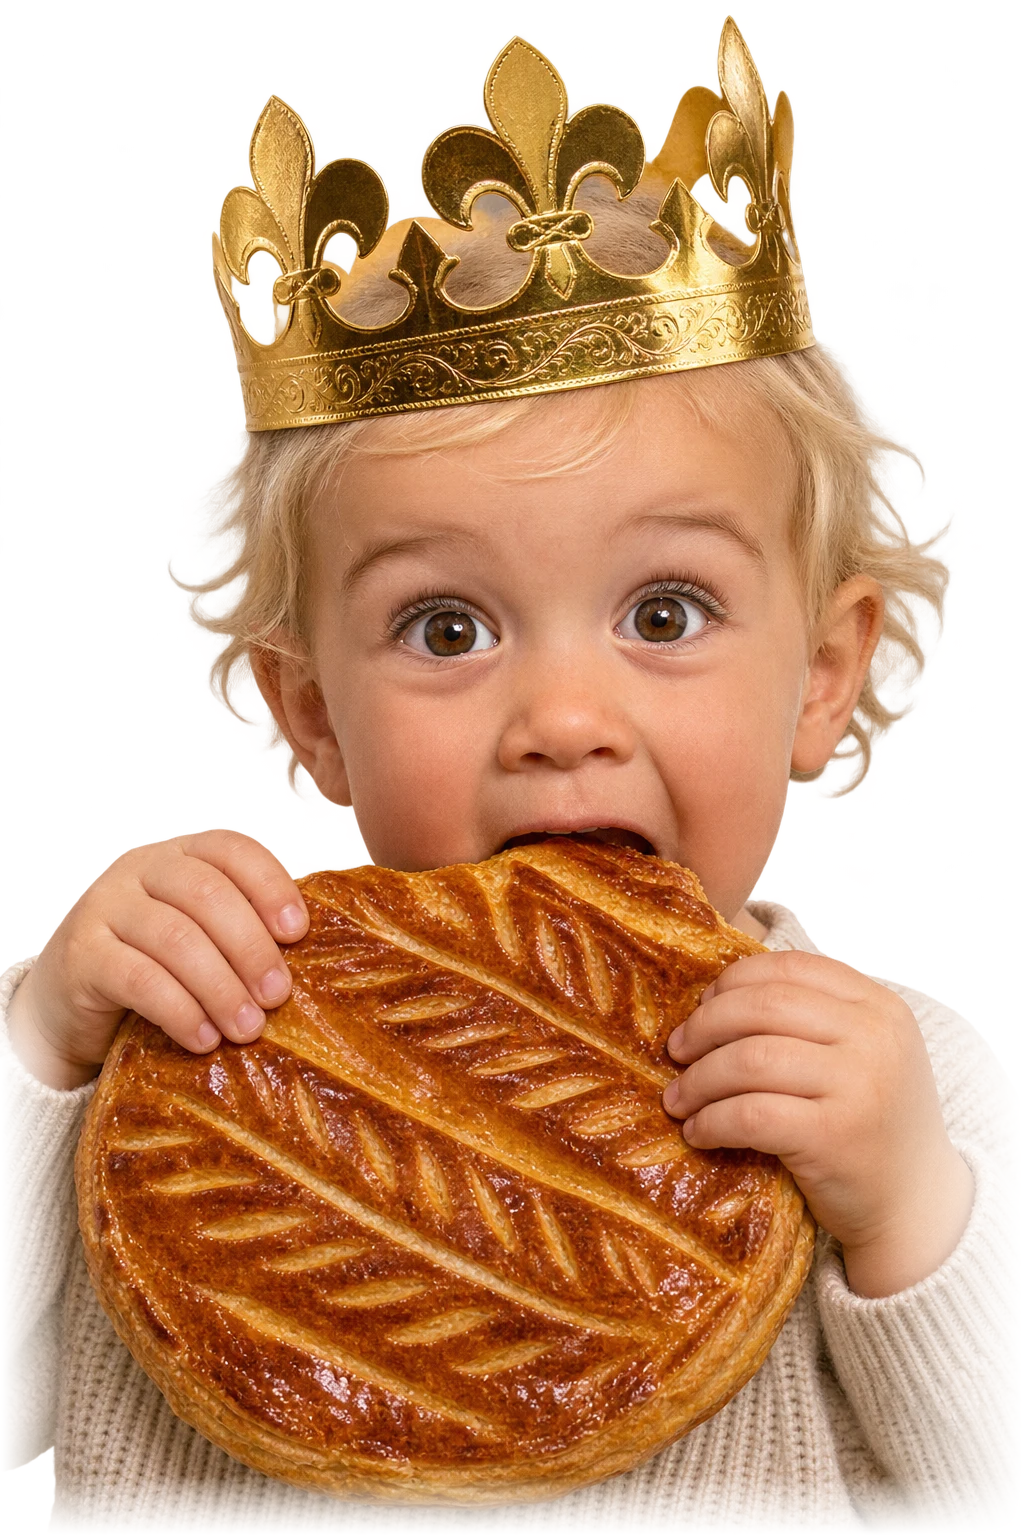
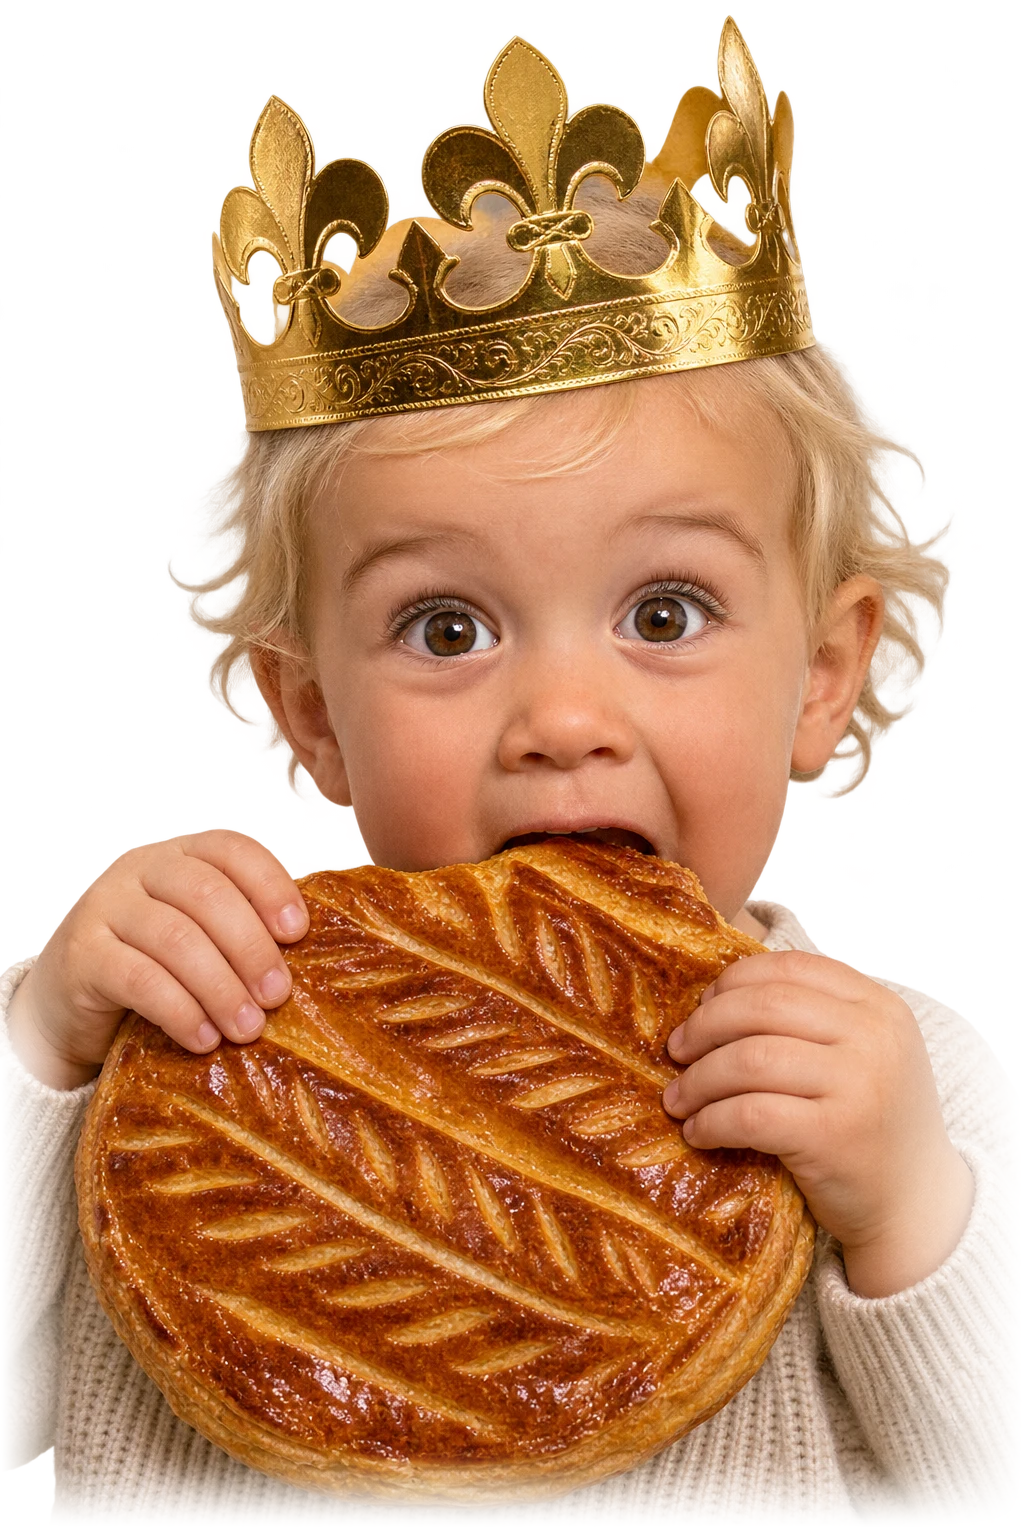
Add files via upload

Changed region(s): [[0.0625, 0.9375, 0.9062, 1.0]]

diff --git a/public/galette/index.html b/public/galette/index.html
@@ -7,7 +7,8 @@
 <meta name="robots" content="noindex">
 <link rel="icon" href="/img/icon.png">
 <title>Galette des rois · Inscription</title>
-<link rel="preload" href="/galette/img/affiche.webp" as="image">
+<link rel="preload" href="/galette/img/affiche-fond.webp" as="image">
+<link rel="preload" href="/galette/img/bebe.webp" as="image">
 <link rel="stylesheet" href="/galette/fonts.css">
 <style>
 /* Même direction artistique que l'affiche : crème, rouge brique, Bodoni Moda (titres) + Montserrat (texte). */
@@ -28,10 +29,12 @@ button,input{font:inherit;color:inherit}
 .vhprobe{position:absolute;top:0;left:0;width:1px;height:100svh;visibility:hidden;pointer-events:none}
 .poster{position:relative;margin:0 auto;overflow:hidden;background:var(--bg)}
 @media (min-width:601px){.poster{box-shadow:0 30px 60px rgba(74,35,36,.18);border-radius:4px}}
-.poster img{position:absolute;inset:0;display:block;width:100%;height:100%}
-.flyer{position:absolute;left:0;top:0;transform-origin:50% 50%;will-change:transform,opacity;backface-visibility:hidden;pointer-events:none;z-index:3;opacity:0}
-.flyer img{display:block;width:100%;height:100%}
-.hint{position:fixed;left:50%;bottom:max(18px,env(safe-area-inset-bottom));transform:translateX(-50%);z-index:4;
+.poster img,.over img{position:absolute;inset:0;display:block;width:100%;height:100%}
+/* Calque du dessus de l'affiche (encadrés, bloc inscription, bandeau) : le bébé passe dessous, comme sur l'affiche. */
+.over{position:absolute;left:0;top:0;z-index:4;pointer-events:none}
+.flyer{position:absolute;left:0;top:0;transform-origin:50% 50%;will-change:transform;backface-visibility:hidden;pointer-events:none;z-index:3}
+.flyer img{display:block;width:100%;height:100%;filter:drop-shadow(0 calc(var(--k,1) * 18px) calc(var(--k,1) * 22px) rgba(90,42,43,.16))}
+.hint{position:fixed;left:50%;bottom:max(18px,env(safe-area-inset-bottom));transform:translateX(-50%);z-index:5;
   display:flex;flex-direction:column;align-items:center;gap:4px;font-weight:700;font-size:.92rem;letter-spacing:.02em;text-align:center;white-space:nowrap;text-decoration:none;transition:opacity .3s}
 .hint span{display:inline-flex;align-items:center;gap:8px;background:var(--red);color:#fff;border-radius:999px;padding:10px 18px;box-shadow:0 8px 20px rgba(147,53,56,.35)}
 .hint i{font-style:normal;animation:bob 1.4s ease-in-out infinite}
@@ -92,10 +95,10 @@ label.f.bad input{border-color:var(--err);background:#fff5f5}
   <div class="stage" id="stage">
     <div class="vhprobe" id="vhprobe"></div>
     <div class="poster" id="poster" role="img" aria-label="Affiche : Partageons la galette des rois, mardi 19 janvier 2027 à 19 h au cabinet d'orthodontie, 7 rue Frédéric Bertrand à Auxerre.">
-      <img src="/galette/img/affiche-sans-bebe.webp" alt="" width="1588" height="2246">
-      <img id="poster-full" src="/galette/img/affiche.webp" alt="" width="1588" height="2246" fetchpriority="high">
+      <img src="/galette/img/affiche-fond.webp" alt="" width="1588" height="2246" fetchpriority="high">
     </div>
     <div class="flyer" id="flyer"><img src="/galette/img/bebe.webp" alt="" width="1024" height="1536"></div>
+    <div class="over" id="over"><img src="/galette/img/affiche-dessus.webp" alt="" width="1588" height="2246"></div>
     <a class="hint" id="hint" href="#jouer"><span>Faites défiler pour vous inscrire <i>↓</i></span></a>
   </div>
 </section>
@@ -149,9 +152,10 @@ label.f.bad input{border-color:var(--err);background:#fff5f5}
 
   /* ---------- Animation au défilement ----------
      Comme pour le nounours de Noël : l'affiche et le formulaire défilent normalement ; seul le bébé est animé.
-     Au départ, l'affiche complète est affichée ; dès qu'on défile, elle laisse la place à l'affiche sans bébé
-     et au bébé qui s'envole, grandit, pivote vers la droite puis passe sous le formulaire (seule la couronne dépasse). */
-  const jeu = $('#jouer'), poster = $('#poster'), full = $('#poster-full'), flyer = $('#flyer'), hint = $('#hint'), probe = $('#vhprobe');
+     L'affiche est en deux calques (fond, et dessus : encadrés, bloc inscription, bandeau) ; le bébé, toujours opaque,
+     est entre les deux, à sa place exacte. Il s'envole, grandit, pivote vers la droite puis passe sous le formulaire
+     (seule la couronne dépasse). */
+  const jeu = $('#jouer'), poster = $('#poster'), over = $('#over'), flyer = $('#flyer'), hint = $('#hint'), probe = $('#vhprobe');
   const CROWN = .27; // part du bébé (depuis le haut) qui reste visible au-dessus du formulaire : la couronne
   const ROT = 12;    // inclinaison finale, en degrés vers la droite
   const GAP = .3;    // écart entre le bas de l'affiche et le haut du formulaire, en hauteur d'écran
@@ -160,6 +164,7 @@ label.f.bad input{border-color:var(--err);background:#fff5f5}
   const clamp = (v, a = 0, b = 1) => Math.min(b, Math.max(a, v));
   const ease = (t) => (t < .5 ? 4 * t * t * t : 1 - Math.pow(-2 * t + 2, 3) / 2);
   const lerp = (a, b, t) => a + (b - a) * t;
+  const soft = (t) => (1 - Math.cos(Math.PI * t)) / 2; // départ et arrivée en douceur
   const DUR = 1000, hasST = typeof ScrollTimeline === 'function';
   let anims = [], S = 1, lastKey = '';
   function layout() {
@@ -168,6 +173,8 @@ label.f.bad input{border-color:var(--err);background:#fff5f5}
     if (vw <= 600) W = Math.min(vw, 640); // sur téléphone : l'affiche occupe toute la largeur
     const H = W * 1.41436, L = (vw - W) / 2, T = vw > 600 ? 20 : 0;
     poster.style.width = W + 'px'; poster.style.height = H + 'px'; poster.style.marginTop = T + 'px';
+    Object.assign(over.style, { left: L + 'px', top: T + 'px', width: W + 'px', height: H + 'px' });
+    flyer.style.setProperty('--k', (W / 794).toFixed(3));
     if (reduce) return;
     const bw = BABY.w * W, bh = BABY.h * H;
     flyer.style.width = bw + 'px'; flyer.style.height = bh + 'px';
@@ -183,24 +190,20 @@ label.f.bad input{border-color:var(--err);background:#fff5f5}
     lastKey = key;
     const x0 = L + BABY.x * W, y0 = T + BABY.y * H;
     const pose = (p) => {
-      const m = ease(clamp((p - .02) / .9)), sc = lerp(1, target, m);
-      const cx = lerp(x0 + bw / 2, vw / 2, m), cy = lerp(y0 - p * S + bh / 2, vh * .48, m) + p * S;
+      // Le bébé quitte l'affiche tout de suite et glisse d'un seul mouvement vers le centre (sans remonter avec l'affiche).
+      const m = soft(clamp(p / .92)), sc = lerp(1, target, m);
+      const cx = lerp(x0 + bw / 2, vw / 2, m), cy = lerp(y0 + bh / 2, vh * .48, m) + p * S;
       return `translate3d(${(cx - bw / 2).toFixed(1)}px,${(cy - bh / 2).toFixed(1)}px,0) rotate(${(ROT * m).toFixed(2)}deg) scale(${sc.toFixed(4)})`;
     };
-    const fade = (p) => clamp(p / .05); // passage de l'affiche complète au bébé détaché
-    const fb = [], fp = [];
-    for (let i = 0; i <= 40; i++) {
-      const p = i / 40, o = (p * S) / max;
-      fb.push({ offset: o, transform: pose(p), opacity: fade(p) });
-      if (p <= .1) fp.push({ offset: o, opacity: 1 - fade(p) });
-    }
-    fb.push({ offset: 1, transform: pose(1), opacity: 1 });
-    fp.push({ offset: 1, opacity: 0 });
+    const fb = [];
+    for (let i = 0; i <= 48; i++) { const p = i / 48; fb.push({ offset: (p * S) / max, transform: pose(p) }); }
+    fb.push({ offset: 1, transform: pose(1) });
     anims.forEach((a) => a.cancel());
     const opt = hasST
       ? () => ({ duration: 'auto', fill: 'both', timeline: new ScrollTimeline({ source: document.documentElement, axis: 'block' }) })
       : () => ({ duration: DUR, fill: 'both' });
-    anims = [flyer.animate(fb, opt()), full.animate(fp, opt())];
+    anims = [flyer.animate(fb, opt())];
+    flyer.style.transform = pose(clamp(scrollY / S)); // position de départ même avant que l'animation tourne
     if (!hasST) { anims.forEach((a) => a.pause()); sync(); }
   }
   function sync() {
